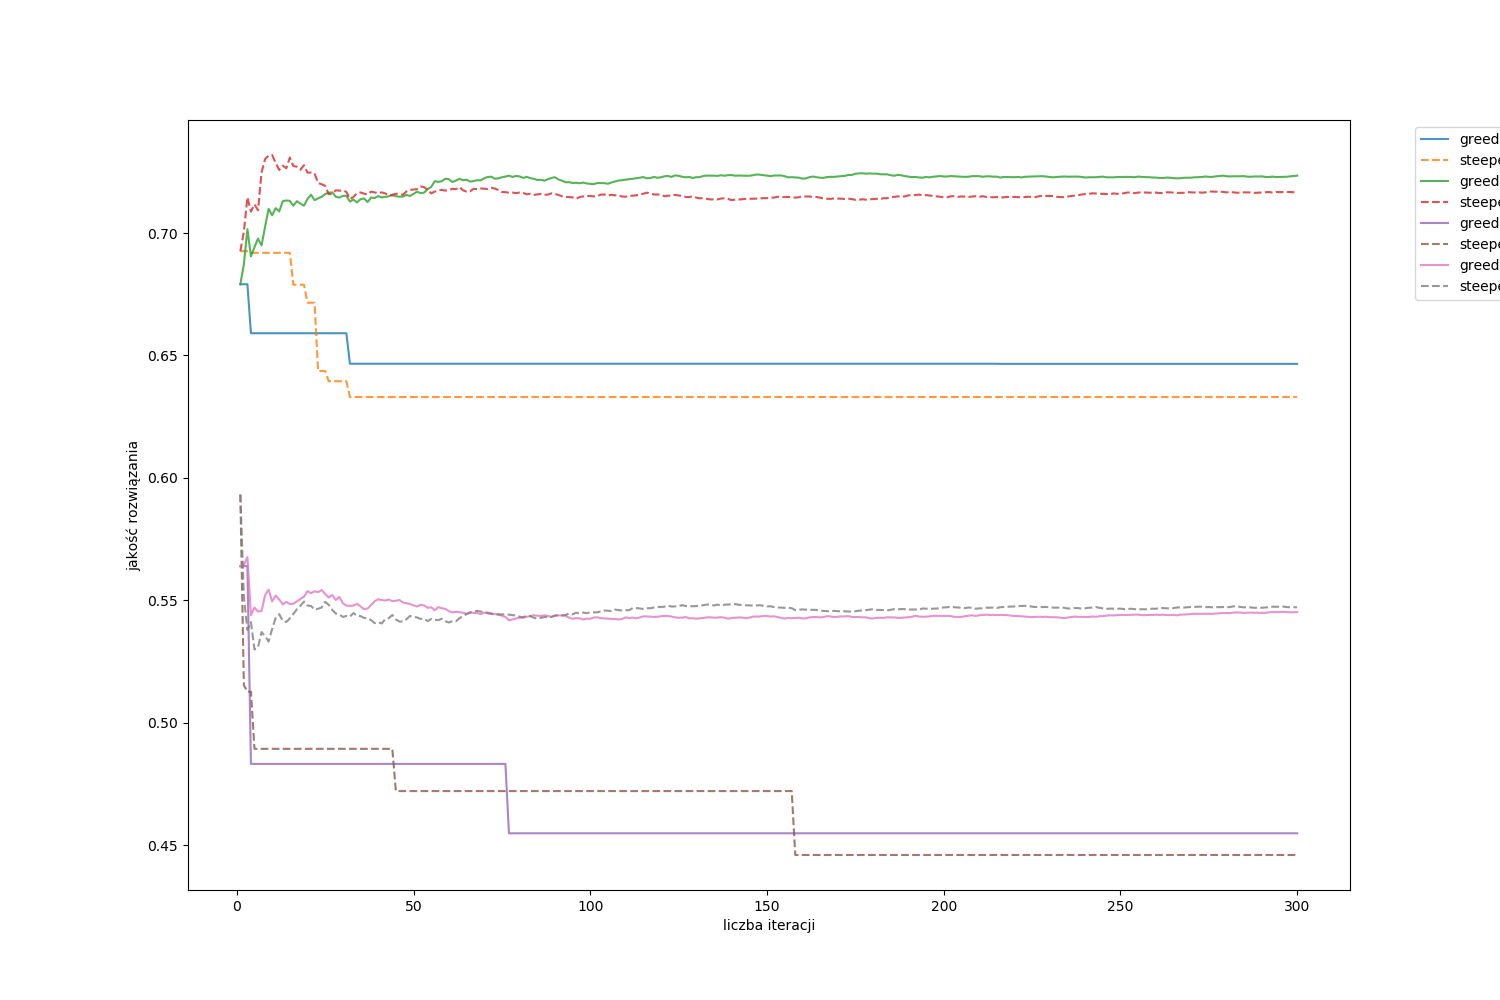
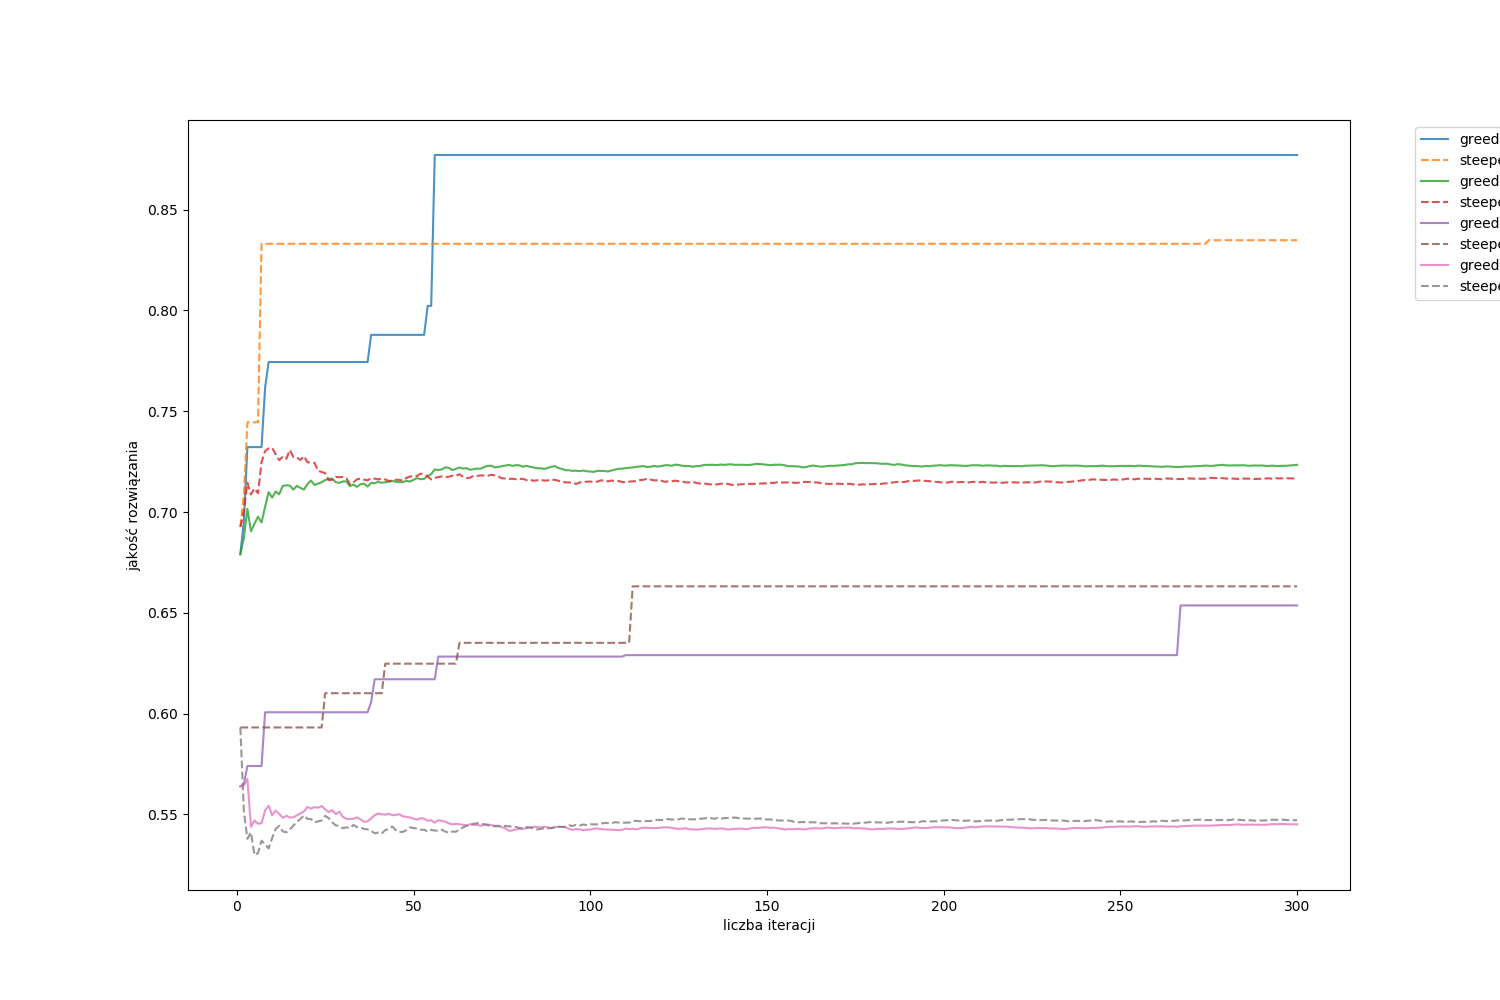
Fixed condition for the best solution

diff --git a/QapPlots/multiple_restarts.py b/QapPlots/multiple_restarts.py
@@ -38,7 +38,7 @@ def get_results(file):
         avg.append(score)
         continue
 
-    if score > best[i-2]:
+    if score < best[i-2]:
         best.append(score)
     else:
         best.append(best[i-2])
